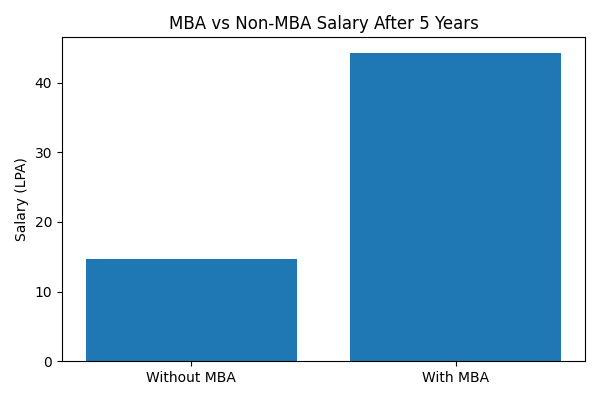
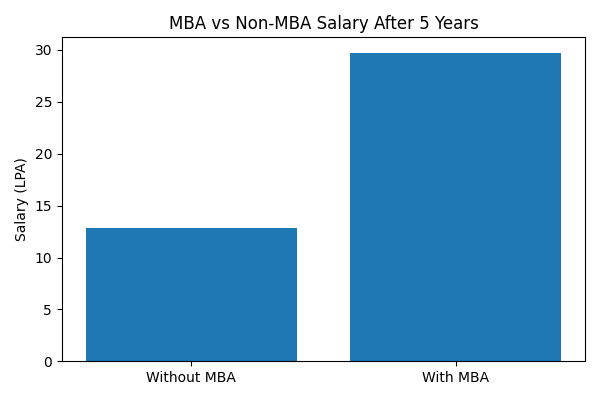
Added Power BI dashboard and expanded MBA dataset

diff --git a/mba_roi_analyzer.py b/mba_roi_analyzer.py
@@ -1,5 +1,6 @@
 import pandas as pd
 import matplotlib.pyplot as plt
+import numpy as np
 
 # Load Dataset
 df = pd.read_csv("data/mba_colleges.csv")
@@ -43,11 +44,15 @@ df["ROI_Percent"] = (
     df["Salary_Increment"] /
     df["Fees_Lakhs"]
 ) * 100
-
-df["Payback_Years"] = (
+df["ROI_Percent"] = df["ROI_Percent"].round(2)
+df["Payback_Years"] = np.where(
+    df["Salary_Increment"] > 0,
     df["Fees_Lakhs"] /
-    df["Salary_Increment"]
+    df["Salary_Increment"],
+    0
 )
+
+df["Payback_Years"] = df["Payback_Years"].round(2)
 
 print("\nMBA ROI Analysis\n")
 print(df)
